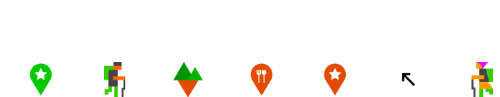
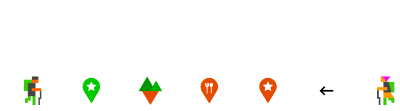
bg_top

diff --git a/blog/templates/blog/base_new.html b/blog/templates/blog/base_new.html
@@ -13,7 +13,7 @@
         <!-- 탑 바로가기 접었다 폈다 -->
     </head>
     {% if request.get_full_path == "/abb/15" %}
-      <body class="d-flex flex-column h-100" style="background-color:#f8e684; background-image: url('/media/images/bg_placeLang.png'); background-repeat: no-repeat;">
+      <body class="d-flex flex-column h-100" style="background-color:#f8e684; background-image: url('/media/images/bg_placeLang.png'); background-position: center; background-position-y: top; background-repeat: no-repeat;">
     {% else %}
       <body class="d-flex flex-column h-100" style="background-color:#f8e684;">
     {% endif %}
